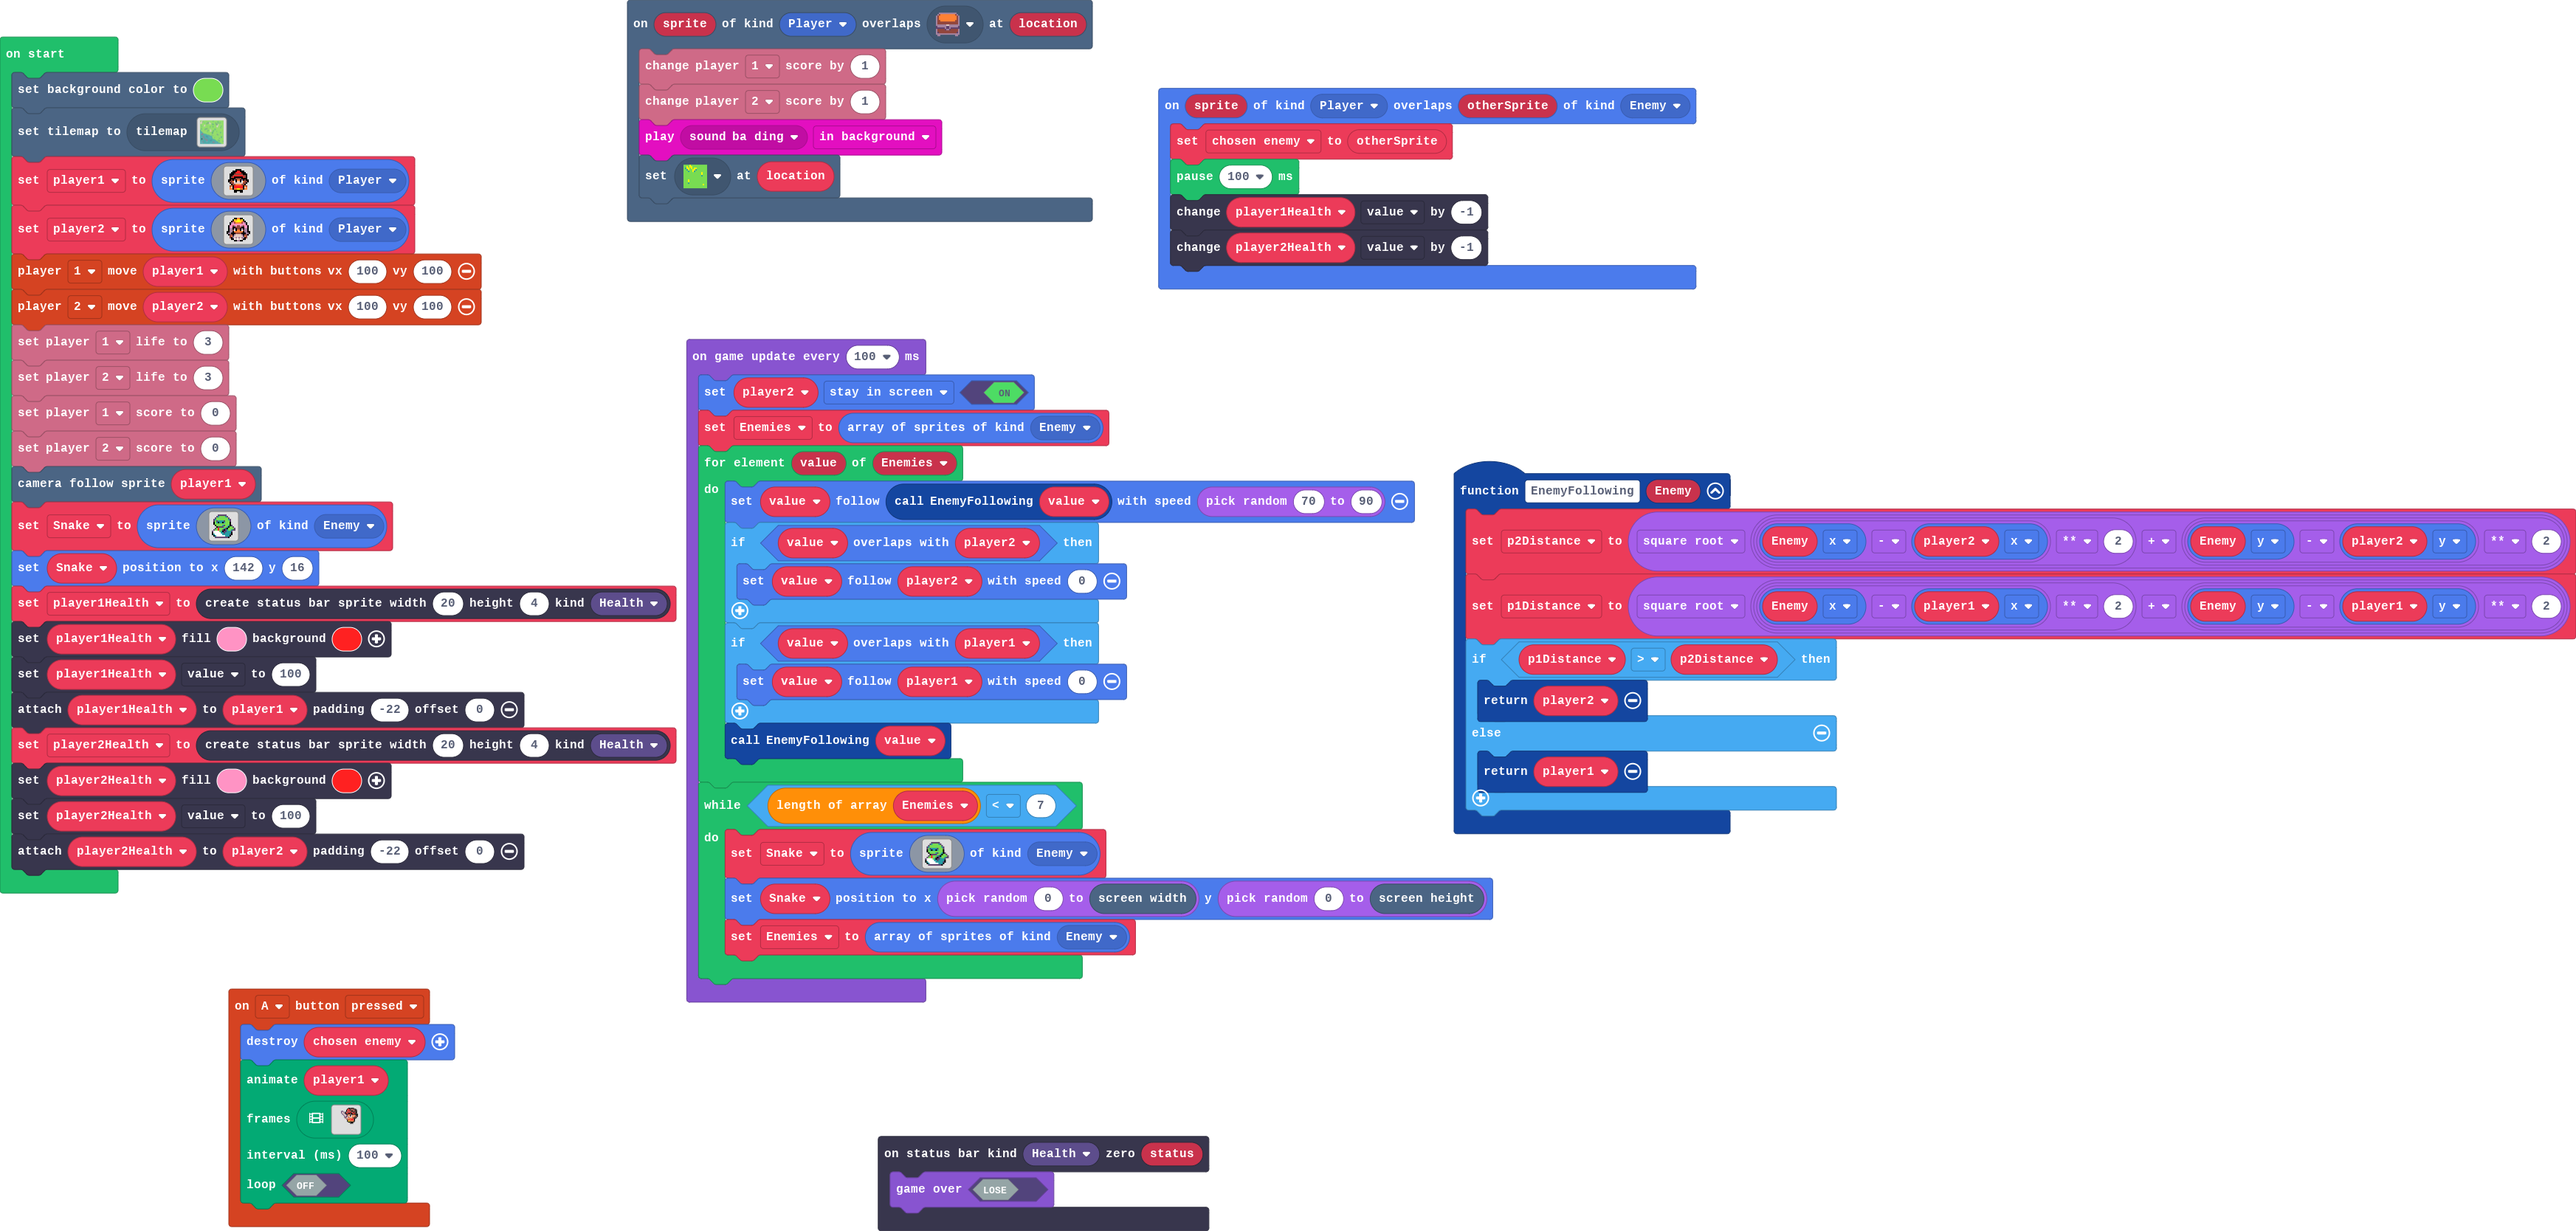
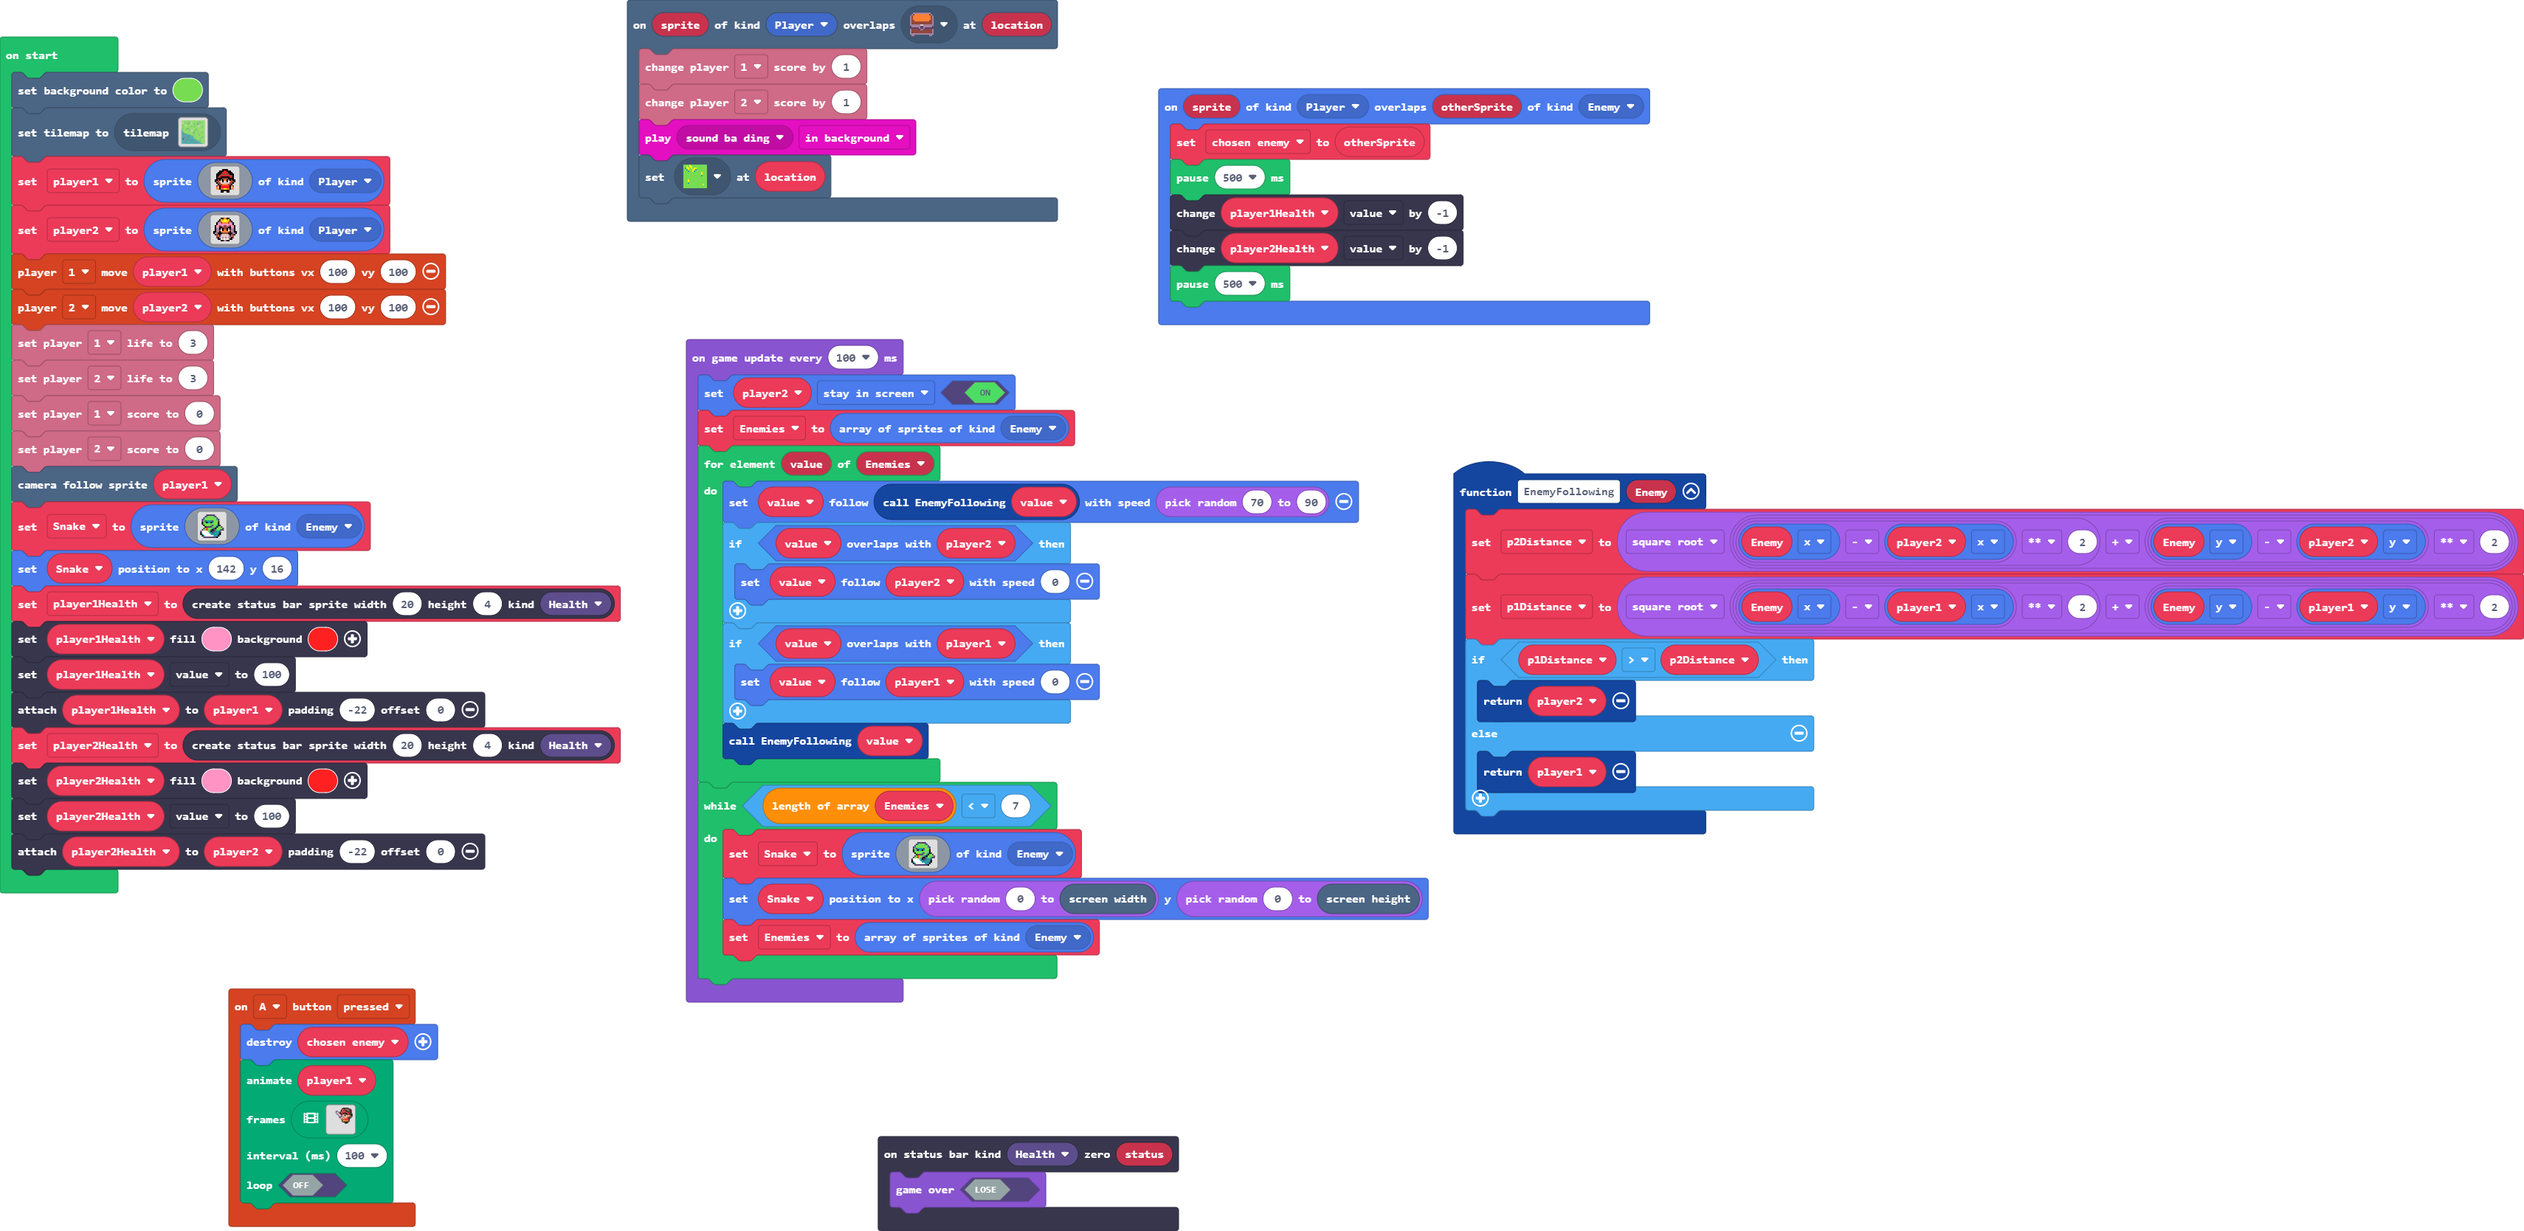
Update main.blocks, main.ts

diff --git a/main.ts b/main.ts
@@ -127,9 +127,10 @@ statusbars.onZero(StatusBarKind.Health, function (status) {
 })
 sprites.onOverlap(SpriteKind.Player, SpriteKind.Enemy, function (sprite, otherSprite) {
     chosen_enemy = otherSprite
-    pause(100)
+    pause(500)
     player1Health.value += -1
     player2Health.value += -1
+    pause(500)
 })
 let Enemies: Sprite[] = []
 let chosen_enemy: Sprite = null
